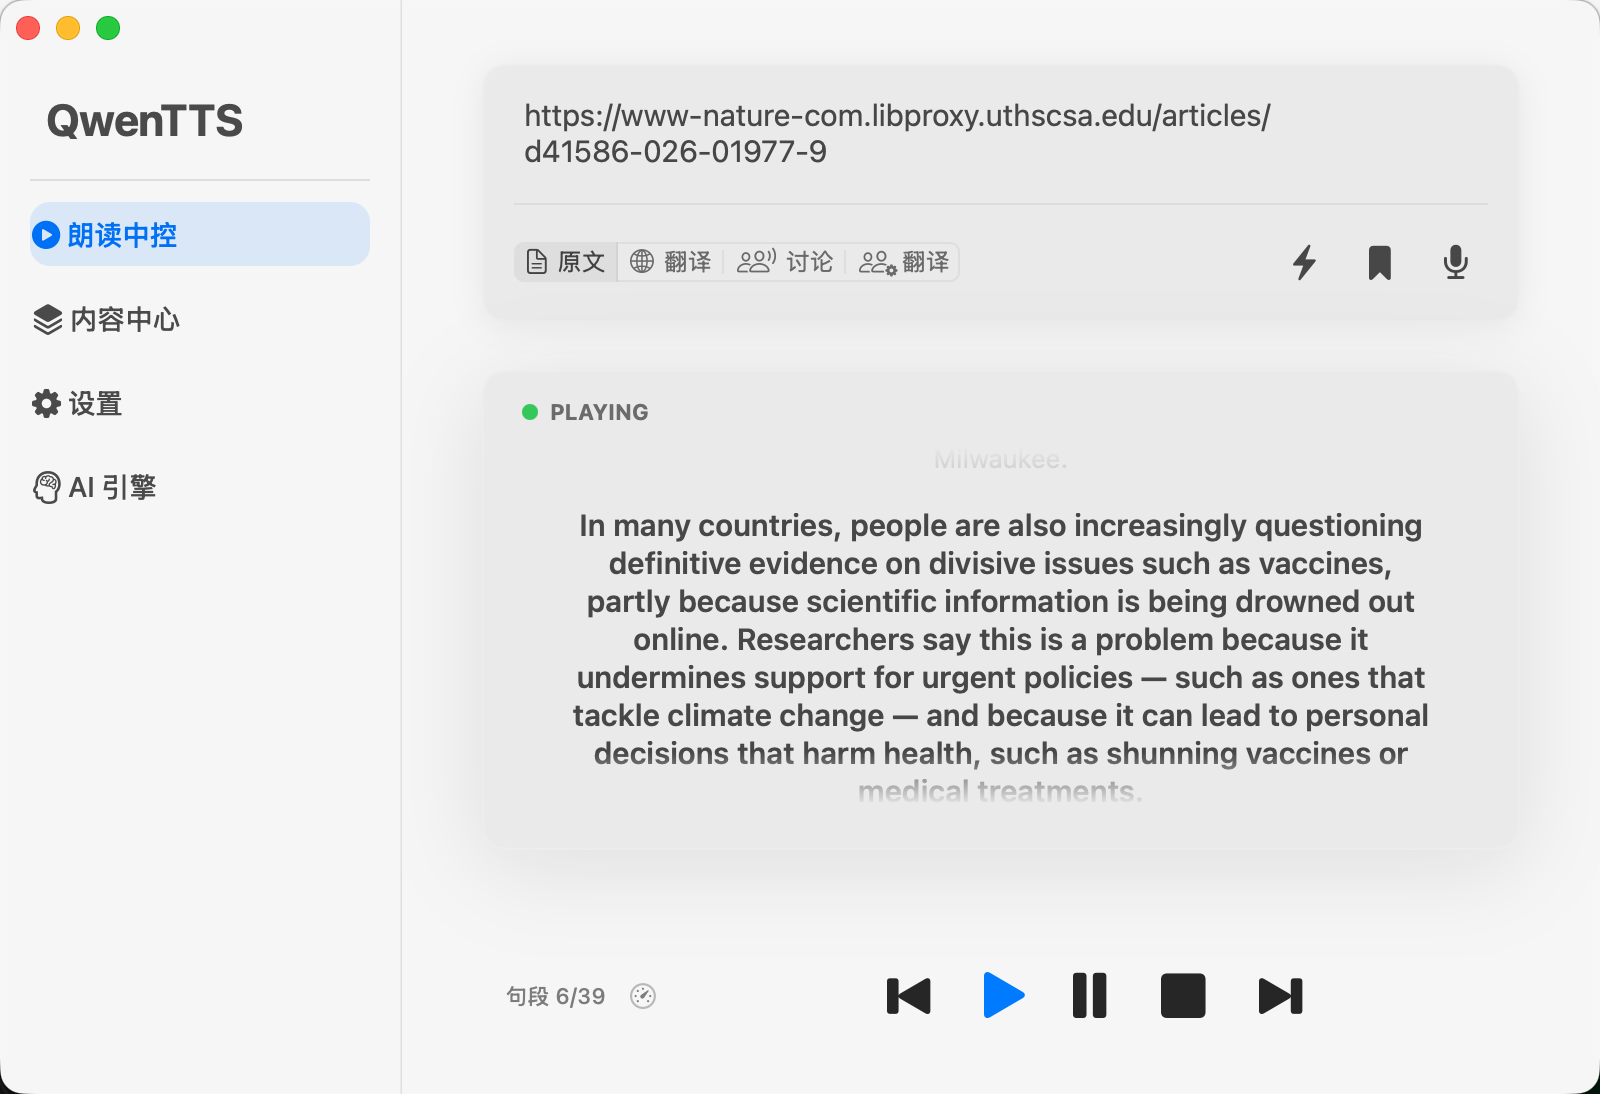
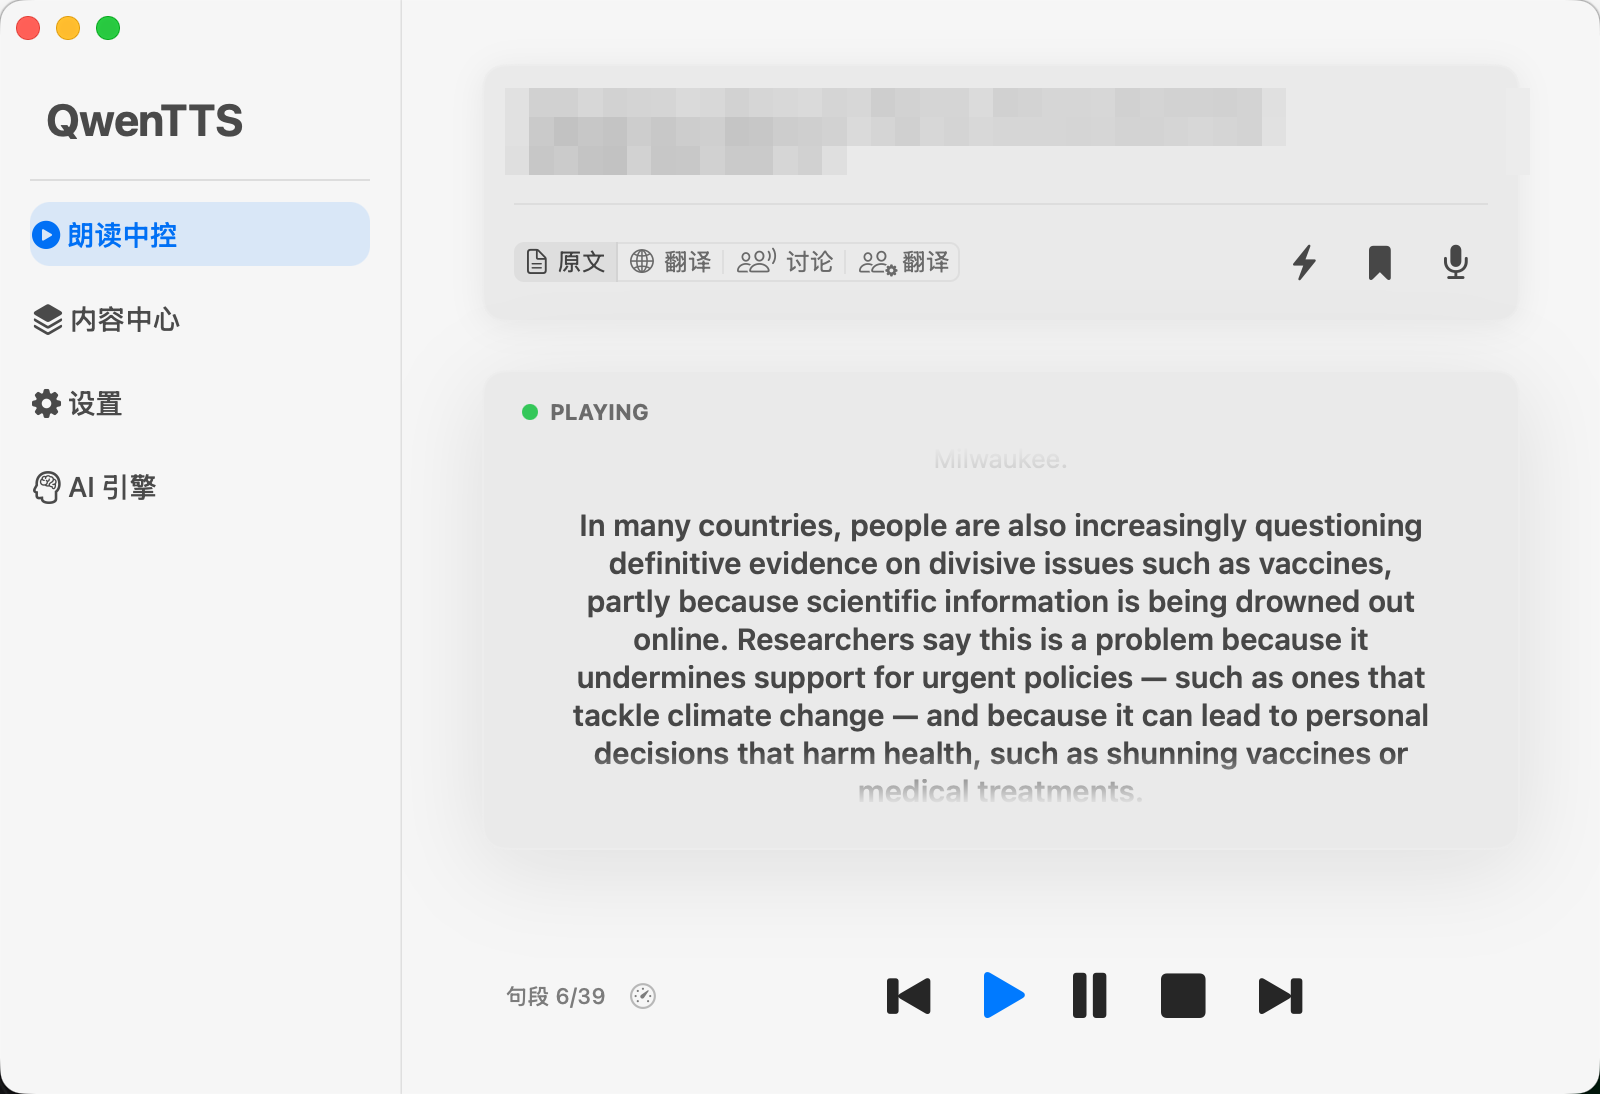
docs: dedupe hero screenshot in en/zh READMEs; pixelate URL in main screenshot
The reading-console shot appeared twice (hero + Screenshots section) in both
README.en.md and README.zh-CN.md — keep the hero, drop the duplicate
subsection, keeping both languages structurally aligned. The screenshot's
address bar (institutional proxy URL) is mosaicked out.

Changed region(s): [[0.3125, 0.0622, 0.8125, 0.1865]]

diff --git a/README.en.md b/README.en.md
@@ -21,10 +21,6 @@ TTS inference runs locally on your Mac. Your text does not need to be sent to a 
 
 ## Screenshots
 
-### Read Web Pages And Long Text
-
-![QwenTTS reading console](docs/images/main-window-url-reading.png)
-
 ### Save Articles And Manage Podcasts
 
 ![QwenTTS library and podcasts](docs/images/library-podcasts.png)

diff --git a/README.zh-CN.md b/README.zh-CN.md
@@ -21,10 +21,6 @@ TTS 推理在本机完成，不需要把文本发送到云端 TTS 服务。
 
 ## 截图
 
-### 朗读网页和长文
-
-![QwenTTS reading console](docs/images/main-window-url-reading.png)
-
 ### 管理稍后阅读和播客
 
 ![QwenTTS library and podcasts](docs/images/library-podcasts.png)